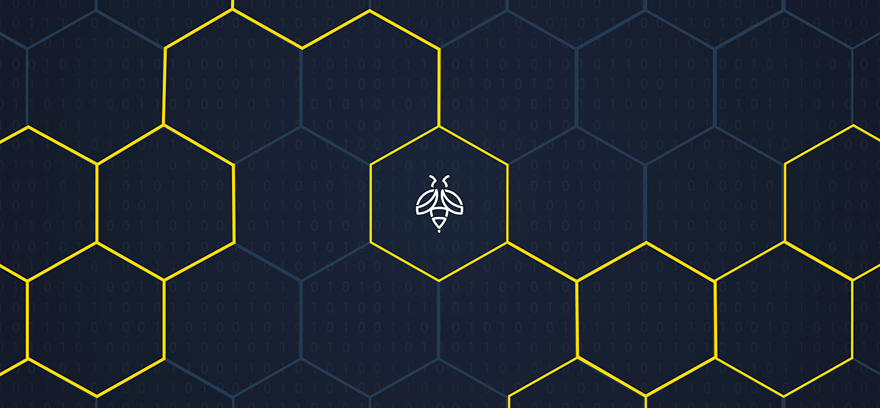
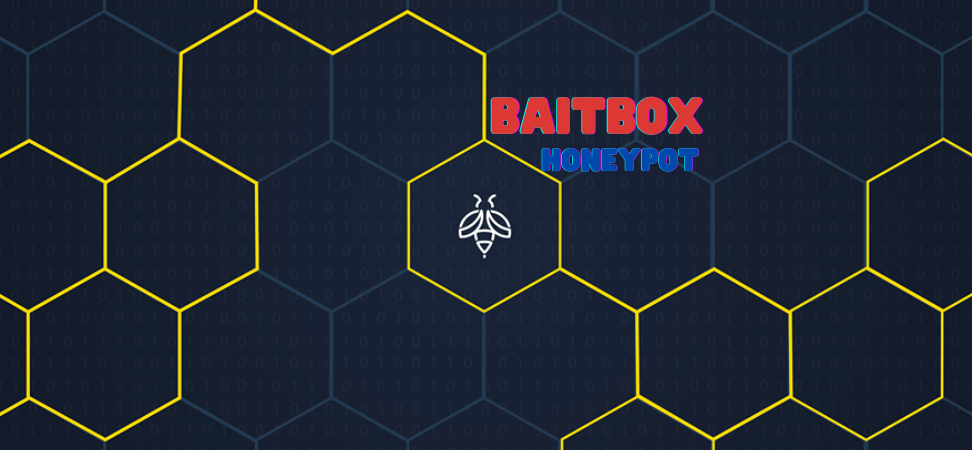
Finalized GUI

diff --git a/main.py b/main.py
@@ -20,7 +20,7 @@ class main:
         self.f1 = font.Font(family='Serif', size='30')
         self.f2 = font.Font(family='Serif', size='10')
         self.f3 = font.Font(family='Serif', size='20')
-        self.pic = PhotoImage(file='E:\Class\Semester 6\CyberSecurity Project\Final\Resources\lado.png')
+        self.pic = PhotoImage(file='E:\Class\Semester 6\CyberSecurity Project\Final\Resources\honey.png')
 
         self.p1 = Label(self.root, image=self.pic)
         self.p1.pack()
@@ -101,7 +101,7 @@ class main:
         self.label_padding_x = 100
 
         self.host_label = customtkinter.CTkLabel(self.new_window, 
-                                                text="Host IP Address:", 
+                                                text="Host IP Address", 
                                                 font=self.label_font, 
                                                 text_color=self.label_fg_color,
                                                 fg_color=self.label_bg_color,
@@ -113,7 +113,7 @@ class main:
         self.host_entry.pack(pady=5, padx=(self.label_padding_x, 0), anchor="w")
 
         self.port_label = customtkinter.CTkLabel(self.new_window, 
-                                                text="Port:", 
+                                                text="Port", 
                                                 font=self.label_font, 
                                                 text_color=self.label_fg_color,
                                                 fg_color=self.label_bg_color,
@@ -126,7 +126,7 @@ class main:
 
         if service_name == "HTTP":
             self.url_label = customtkinter.CTkLabel(self.new_window, 
-                                                    text="URL:", 
+                                                    text="URL", 
                                                     font=self.label_font, 
                                                     text_color=self.label_fg_color,
                                                     fg_color=self.label_bg_color,
